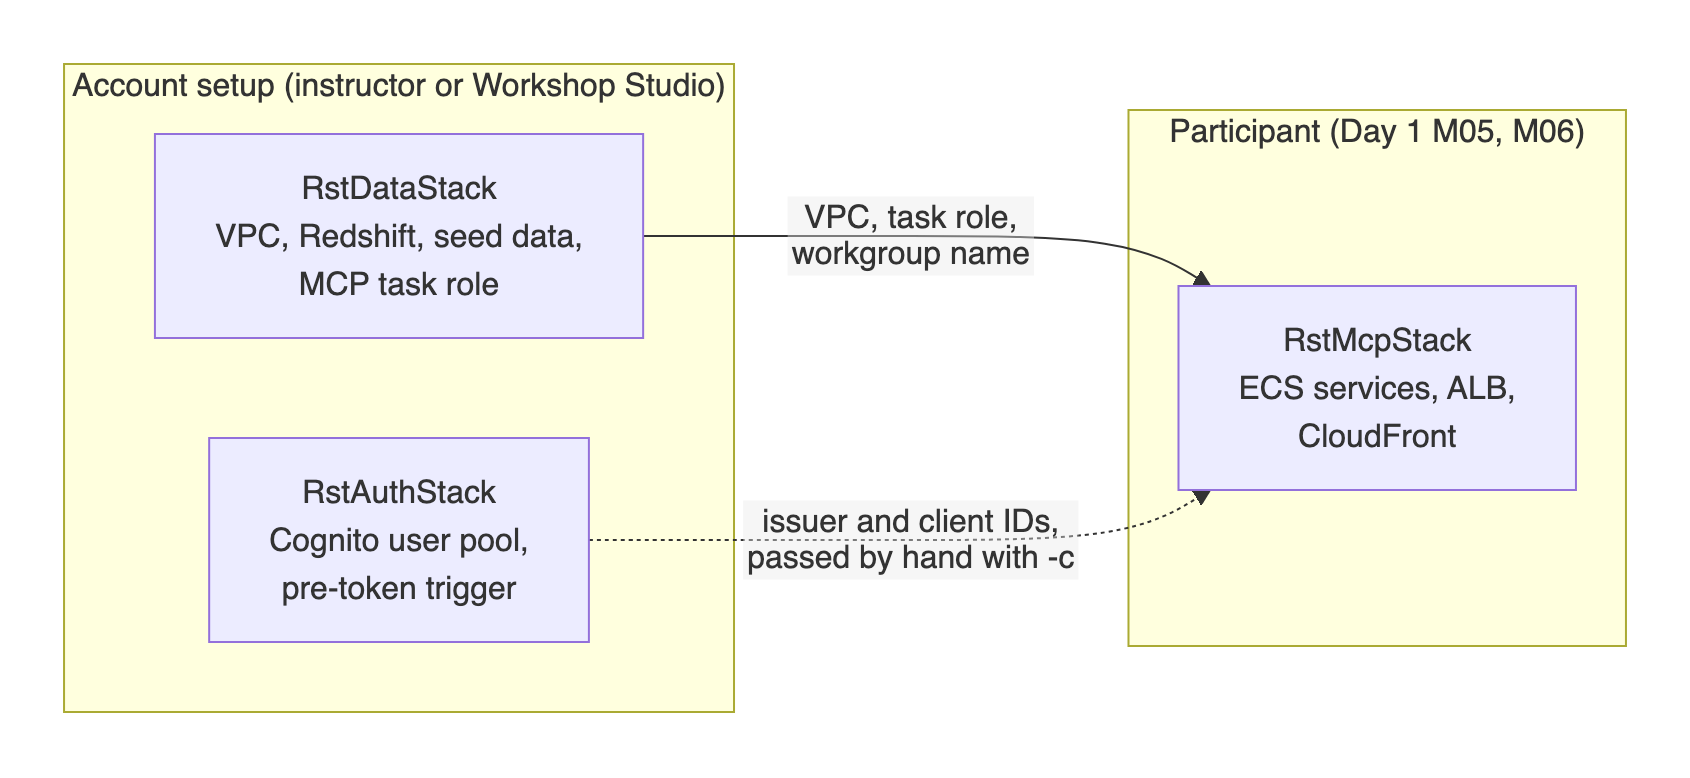
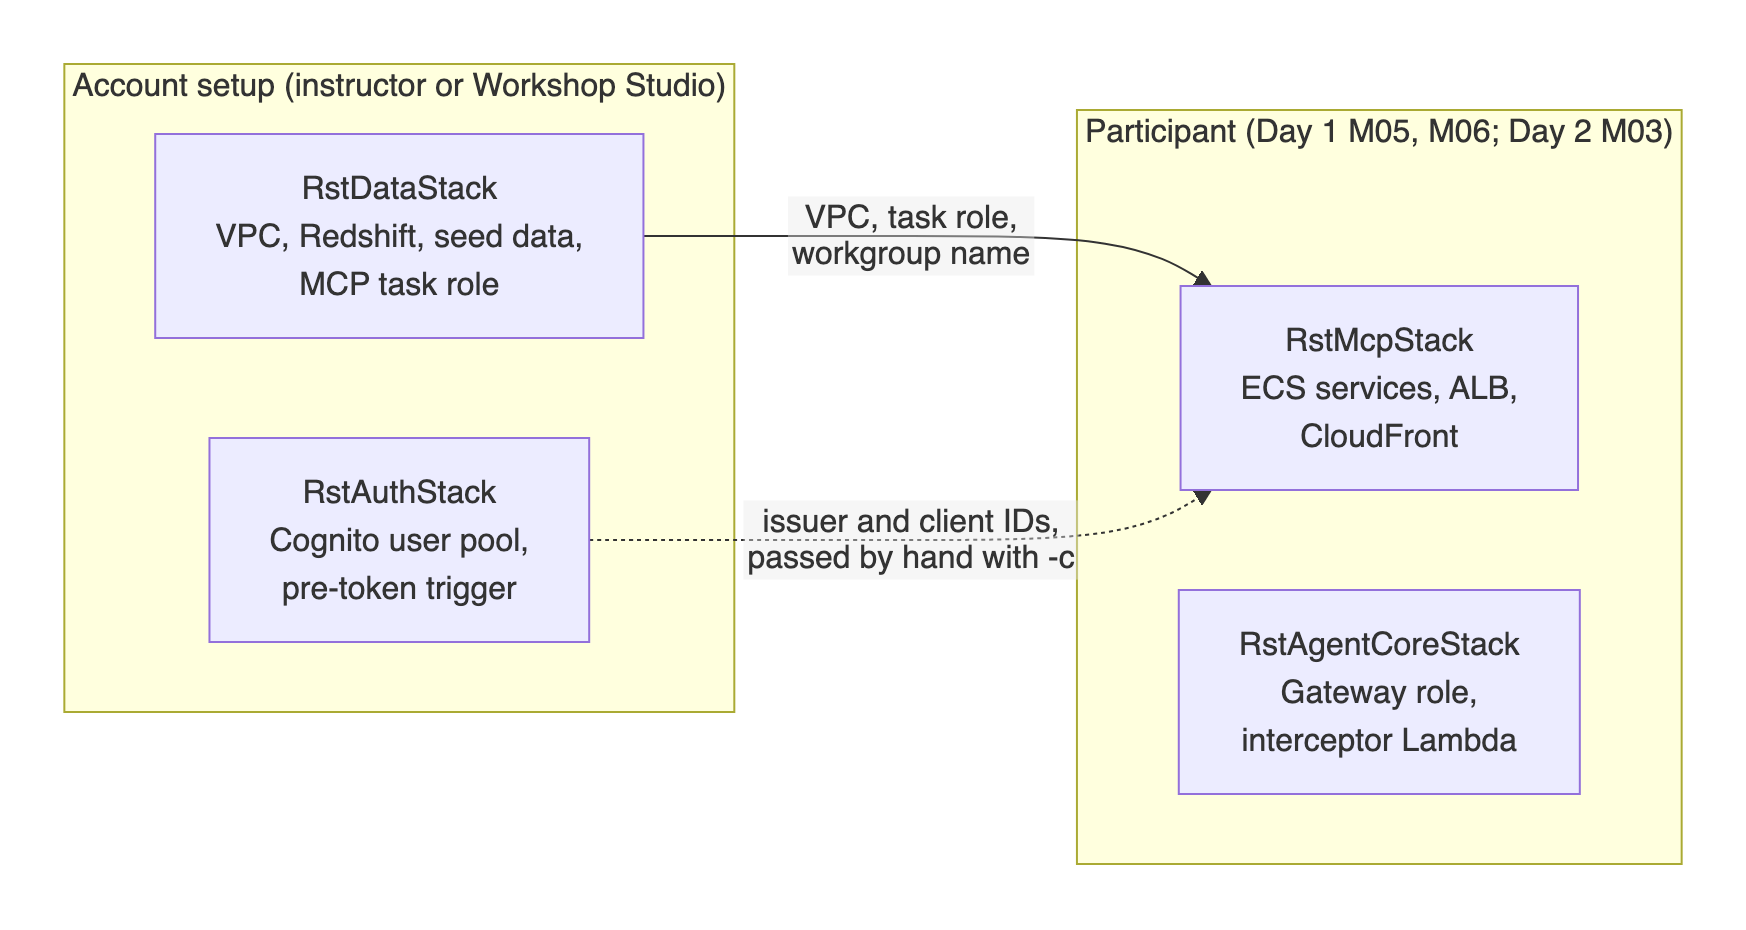
Learning plan, prereqs and CDK reference updated for the tested Days 2-3; new Reference page: Sign-in and tokens, explained

diff --git a/AWS-001-AgenticFromScratch/docs/infra.md b/AWS-001-AgenticFromScratch/docs/infra.md
@@ -8,19 +8,21 @@ You don't need to write CDK in the workshop. You need to know which stack to dep
 
 | Path | What it is |
 |---|---|
-| [`bin/app.ts`](../infra/bin/app.ts) | The CDK app: reads the `-c` options, checks them, and creates the three stacks |
+| [`bin/app.ts`](../infra/bin/app.ts) | The CDK app: reads the `-c` options, checks them, and creates the four stacks |
 | [`lib/data-stack.ts`](../infra/lib/data-stack.ts) | `RstDataStack`: network, Redshift with the mock data, the MCP server's IAM role |
 | [`lib/auth-stack.ts`](../infra/lib/auth-stack.ts) | `RstAuthStack`: the Cognito user pool (and, as catch-up, everything from M06 Part B) |
 | [`lib/mcp-stack.ts`](../infra/lib/mcp-stack.ts) | `RstMcpStack`: the MCP server and the two internal apps on ECS, behind CloudFront |
+| [`lib/agentcore-stack.ts`](../infra/lib/agentcore-stack.ts) | `RstAgentCoreStack` (Day 2): the AgentCore Gateway's IAM role and request interceptor |
 | [`lambda/seed/handler.py`](../infra/lambda/seed/handler.py) | Custom resource that loads the mock data into Redshift and grants access |
 | [`lambda/pre_token/index.py`](../infra/lambda/pre_token/index.py) | Cognito trigger that copies `role` and `branch_id` into the access token |
+| [`lambda/gateway_interceptor/index.py`](../infra/lambda/gateway_interceptor/index.py) | Gateway request interceptor (Day 2): passes the caller's token on to the MCP server target |
 | [`test/test_seed_handler.py`](../infra/test/test_seed_handler.py) | Unit tests for the seed handler |
 | [`cdk.json`](../infra/cdk.json) | How to run the app (`ts-node bin/app.ts`) and the default value of each option |
 | `package.json` | CDK versions (`aws-cdk-lib`, `aws-cdk` CLI). Run `npm install` once |
 
 The stacks use files outside `infra/` too: `data/` (seed generator and SQL, used by the seed Lambda), and `mcp-server/`, `mock-api/`, `legacy-app/` (each built into a container image by `RstMcpStack`).
 
-## The three stacks
+## The stacks
 
 ```mermaid
 flowchart LR
@@ -28,8 +30,9 @@ flowchart LR
         data["RstDataStack<br/>VPC, Redshift, seed data,<br/>MCP task role"]
         auth["RstAuthStack<br/>Cognito user pool,<br/>pre-token trigger"]
     end
-    subgraph participant["Participant (Day 1 M05, M06)"]
+    subgraph participant["Participant (Day 1 M05, M06; Day 2 M03)"]
         mcp["RstMcpStack<br/>ECS services, ALB,<br/>CloudFront"]
+        ac["RstAgentCoreStack<br/>Gateway role,<br/>interceptor Lambda"]
     end
     data -- "VPC, task role,<br/>workgroup name" --> mcp
     auth -. "issuer and client IDs,<br/>passed by hand with -c" .-> mcp
@@ -47,7 +50,7 @@ Open full size: [PNG](img/diagrams/infra-1.png) · [SVG](img/diagrams/infra-1.sv
 | Redshift Serverless namespace and workgroup `rst-workshop`, database `dev`, base capacity 8 RPU, 60 s query limit | The data the MCP tools read. Not publicly reachable |
 | Secrets Manager secret `RedshiftAdmin` | The admin password, used only by the seed step |
 | S3 bucket and a COPY role | The seed step writes CSV files here and Redshift loads them |
-| IAM role `rst-mcp-task-<region>` | The MCP server's identity. It may call the Redshift Data API on this workgroup only, and is mapped to the database role `mcp_reader`. ECS and AgentCore Runtime (Day 2) can use it |
+| IAM role `rst-mcp-task-<region>` | The MCP server's identity. It may call the Redshift Data API on this workgroup only, and is mapped to the database role `mcp_reader`. ECS and AgentCore Runtime (Day 2) can use it; it may also write Runtime logs, traces and metrics |
 | Custom resource `Seed` (Lambda `lambda/seed/handler.py`) | Creates the tables and `mcp` views, loads the mock data, creates `mcp_reader` and grants it to the task role and to `localDevRoleNames` |
 
 The seed reloads data only when the files in `data/` change or you pass a different `seedEndDate`. It re-applies access (grants) on every deploy.
@@ -79,13 +82,22 @@ Internet → CloudFront (HTTPS) → VPC origin → internal ALB → ECS Fargate:
 | ECS cluster with Cloud Map namespace `rst.local` (shared account: `<participant>.rst.local`) | The MCP server finds the internal apps as `mock-api.rst.local` and `legacy-app.rst.local` |
 | Three Fargate services, 0.25 vCPU / 512 MiB each, ARM64 by default | `mcp-server` (2 tasks, port 8000), `mock-api` (8080), `legacy-app` (8081). Images are built from the folders on your laptop (Docker or Finch) |
 | Secrets `OpsApiKey`, `PromoApiToken` | API keys of the two internal apps, given to the containers as environment variables |
-| Internal Application Load Balancer, health check `/health` | Never public. Only reachable from inside the VPC |
-| CloudFront distribution with a VPC origin | Gives HTTPS on `*.cloudfront.net` without a custom domain or certificate |
+| Internal Application Load Balancer, health check `/health` | Never public. Only reachable from inside the VPC. Paths `/ops/*` go to `mock-api` (Day 2), everything else to the MCP server |
+| CloudFront distribution with a VPC origin | Gives HTTPS on `*.cloudfront.net` without a custom domain or certificate. `https://<cdn>/mcp` is the MCP server; `https://<cdn>/ops` the Ops API (still needs its `X-API-Key`), for AgentCore, which runs outside the VPC |
 | Log groups, one per service, kept one week | CloudWatch Logs, used in M05 and M07 |
 
 Auth is off until you pass `oidcIssuer` (M06 step 7). Then the stack sets `OIDC_ISSUER`, `OIDC_ALLOWED_AUDIENCES`, `OIDC_REQUIRED_SCOPES` and `MCP_PUBLIC_URL` on the MCP server, which turns token checking on.
 
-Outputs: `McpUrl`, `McpPublicUrlNote` (says whether auth is on), `OpsApiKeySecretArn`, `PromoApiTokenSecretArn`.
+Outputs: `McpUrl`, `OpsApiUrl`, `McpPublicUrlNote` (says whether auth is on), `OpsApiKeySecretArn`, `PromoApiTokenSecretArn`.
+
+### `RstAgentCoreStack` (Day 2)
+
+| Resource | Why |
+|---|---|
+| IAM role `rst-gateway-role-<region>` | The role the AgentCore Gateway runs as: read its credentials from the AgentCore Identity vault (and only `bedrock-agentcore-identity!*` secrets), call the interceptor, ask the policy engine |
+| Lambda `rst-gateway-interceptor` | Request interceptor: hands the caller's `Authorization` header on to the targets, so the MCP server knows the user |
+
+The Gateway, its targets, credential providers and policies are not in CDK: participants create them with the AWS CLI in Day 2 M03–M05. Outputs: `GatewayRoleArn`, `InterceptorArn`. Shared account: `RstAgentCoreStack-<participant>`.
 
 ## Options (`-c key=value`)
 
@@ -104,7 +116,7 @@ Defaults are in `cdk.json`. Options are not remembered between deploys: **pass t
 | `oidcIssuer` | MCP | empty | `https://cognito-idp.<region>.amazonaws.com/<user pool id>`. Set: auth on |
 | `oidcAllowedAudiences` | MCP | empty | The app client IDs allowed to call the server, comma-separated, no spaces |
 | `oidcRequiredScopes` | MCP | `rst-mcp/read` | The scope every token must have: `<McpUrl>/read` |
-| `participant` | MCP | empty | Shared account: your short name (2–20 lowercase letters and digits). The stack becomes `RstMcpStack-<participant>` |
+| `participant` | MCP, AgentCore | empty | Shared account: your short name (2–20 lowercase letters and digits). The stacks become `RstMcpStack-<participant>` and `RstAgentCoreStack-<participant>` |
 
 `bin/app.ts` checks `seedEndDate` and `participant` before anything is deployed, so a typo fails at once with a clear message.
 
@@ -131,7 +143,7 @@ npx cdk destroy RstMcpStack          # delete your server stack
 - **Finch instead of Docker:** set `CDK_DOCKER=finch` before deploying.
 - **Shared account:** add `--exclusively -c participant=<name>` and use `RstMcpStack-<name>`. `--exclusively` stops CDK from also deploying `RstDataStack`, which belongs to the instructor.
 - **Wrong region:** CDK uses `CDK_DEFAULT_REGION`, from your profile or `AWS_REGION`. If a deploy goes to an unexpected region, check `echo $AWS_REGION`.
-- **Deleting everything** (instructor, after the event): `RstMcpStack` first (all participant stacks), then `RstAuthStack` and `RstDataStack`.
+- **Deleting everything** (instructor, after the event): first the AgentCore resources (Day 2 M05 and Day 3 M05 "Clean up"), then `RstAgentCoreStack` and `RstMcpStack` (all participant stacks), then `RstAuthStack` and `RstDataStack`.
 
 ## Troubleshooting
 

diff --git a/AWS-001-AgenticFromScratch/learning-plan.md b/AWS-001-AgenticFromScratch/learning-plan.md
@@ -108,18 +108,16 @@ Target: 08:30–17:15 (7h15 content, 1h30 breaks).
 
 ## Day 2 — Same workload on AgentCore
 
-> **Preview** — Day 2 has not yet been tested end to end.
-
 Target: 09:00–17:00 (6h30 content, 1h30 breaks).
 
 | # | Module | Time | Outcome |
 |---|---|---|---|
 | 01 | [AgentCore overview](day2/01-agentcore-overview.md) | 30m | Map Day 1 components to AgentCore services |
-| 02 | [Runtime](day2/02-runtime.md) | 75m | Host Day 1 MCP server on AgentCore Runtime with JWT inbound auth |
-| 03 | [Gateway](day2/03-gateway.md) | 90m | Zero-code MCP from OpenAPI; Lambda target for Redshift; semantic tool search |
-| 04 | [Identity](day2/04-identity.md) | 45m | Outbound credentials (API key, OAuth) via token vault |
-| 05 | [Policy + Observability](day2/05-policy-observability.md) | 60m | Cedar policy restricting write tools; CloudWatch traces |
-| 06 | [Capstone](day2/06-capstone.md) | 60m | Quick + Kiro on Gateway, one restaurant scenario end to end |
+| 02 | [Runtime](day2/02-runtime.md) | 60m | Day 1 MCP server on AgentCore Runtime, same code, Cognito sign-in checked by Runtime |
+| 03 | [Gateway](day2/03-gateway.md) | 75m | One MCP address: Ops API from OpenAPI (no code) + the Runtime server; user identity kept; tool search |
+| 04 | [Identity](day2/04-identity.md) | 30m | Where outbound credentials live (vault), who may read them, ways to pass the user's identity |
+| 05 | [Policy + Observability](day2/05-policy-observability.md) | 60m | Cedar rules on the Gateway (own branch, managers-only refunds), log-only then enforce; logs and traces |
+| 06 | [Capstone](day2/06-capstone.md) | 75m | Kiro on the Gateway, one restaurant scenario end to end, new tool shipped through Runtime |
 | 07 | [Decision matrix](day2/07-decision-matrix.md) | 30m | Choose ECS vs Runtime vs Gateway for common use cases |
 
 **Day 2 schedule**
@@ -127,27 +125,26 @@ Target: 09:00–17:00 (6h30 content, 1h30 breaks).
 | Time | Item |
 |---|---|
 | 09:00–09:30 | M01 AgentCore overview |
-| 09:30–10:45 | M02 Runtime |
-| 10:45–11:00 | Break |
-| 11:00–12:30 | M03 Gateway |
-| 12:30–13:30 | Lunch |
-| 13:30–14:15 | M04 Identity |
-| 14:15–15:15 | M05 Policy + Observability |
-| 15:15–15:30 | Break |
-| 15:30–16:30 | M06 Capstone |
-| 16:30–17:00 | M07 Decision matrix |
+| 09:30–10:30 | M02 Runtime |
+| 10:30–10:45 | Break |
+| 10:45–12:00 | M03 Gateway |
+| 12:00–13:00 | Lunch |
+| 13:00–13:30 | M04 Identity |
+| 13:30–14:30 | M05 Policy + Observability |
+| 14:30–14:45 | Break |
+| 14:45–16:00 | M06 Capstone |
+| 16:00–16:30 | M07 Decision matrix |
+| 16:30–17:00 | Buffer / Q&A |
 
 **Day 2 checkpoints**
 
-- After M02: Kiro calls Runtime-hosted MCP with a Cognito bearer token.
-- After M03: Gateway exposes mock API tools without code written by participant.
-- After M05: `issue_refund` denied for non-manager, allowed for manager; trace visible.
+- After M02: `who_am_i` through Runtime returns the signed-in test user; Kiro uses `rst-agentcore-runtime`.
+- After M03: one Gateway URL lists the Ops API and Runtime tools; `RstMcp___get_current_stock` for another branch returns your own branch.
+- After M05: a manager reading another branch's live stock, and a staff refund, are denied by Gateway rules; the policy decision is visible in the traces.
 
 ---
 
 ## Day 3 — Agents: plan, act, ask, measure
-
-> **Preview** — Day 3 has not yet been tested end to end. The agent and test harness have unit tests, and the agent was checked live against the Day 1 server.
 
 Target: 09:00–17:00 (6h30 content, 1h30 breaks).
 
@@ -202,11 +199,13 @@ The agent uses the same tools as Days 1–2 — no new data sources. Code lives 
 
 **Tested end to end (Day 1):** data and auth stacks, Redshift tools through MCP, ECS deploy behind CloudFront, 401 for missing or invalid tokens, branch scoping and write-tool rules for manager / staff / HQ, the M07 combined question, Kiro IDE OAuth sign-in, and Amazon Quick (web) user authentication — all against a real Cognito pool. Findings from that run are built into M05, M06 and [docs/auth-options.md](docs/auth-options.md).
 
+**Tested end to end (Days 2 and 3, us-east-1):** the MCP server on AgentCore Runtime with Cognito sign-in and branch scoping; the Gateway with the OpenAPI and Runtime targets, the request interceptor and tool search; the four Cedar rules in log-only and enforce mode; Gateway logs and traces; the local agent (recorder, approval, decline and approve); the eval set (18/18 locally); the agent on Runtime with tools through the Gateway, approval pause and policy denial; traces in GenAI Observability.
+
 **Not yet verified:**
 
 - Quick **service auth** against Cognito: Quick always sends `resource` (RFC 8707), and Cognito doesn't support resource binding on client credentials. It may be rejected.
 - Amazon Quick availability and cost in your accounts (needs Enterprise).
-- AgentCore Runtime / Gateway / Policy availability in your region.
-- Day 2 end to end.
-- Day 3 end to end: `agentcore` CLI flags in M05 come from help text, not a live run. Bedrock model access (including any one-time model use-case form) must be enabled. Quick does not show the agent's approval prompts — the approval demo runs in the agent CLI.
+- AgentCore Runtime / Gateway / Policy availability outside us-east-1.
+- Quick connected to the Day 2 Gateway or Runtime (Kiro with a bearer token was tested). Quick does not show the agent's approval prompts; the approval demo runs in the agent CLI.
+- Windows PowerShell versions of the Day 2 and Day 3 commands (tested on macOS).
 - Module timings beyond Day 1's measured deploy times: dry-run each day with an analyst-profile tester (M02 and Day 3 M04 especially).

diff --git a/AWS-001-AgenticFromScratch/docs/sign-in-and-tokens.md b/AWS-001-AgenticFromScratch/docs/sign-in-and-tokens.md
@@ -1,0 +1,96 @@
+# Sign-in and tokens, explained
+
+From Day 1 Module 06 on, every call to your MCP server, the AgentCore Runtime and the Gateway carries a **token**. This page explains what a token is, where it comes from, what the servers check, and what the common errors mean. No prior OAuth knowledge needed.
+
+## The idea in one picture
+
+```mermaid
+sequenceDiagram
+    participant U as You (browser)
+    participant C as Cognito<br/>(user pool)
+    participant A as App: Kiro, get_token.py, Quick
+    participant S as MCP server, Runtime or Gateway
+    A->>C: 1. "Sign this user in" (app client ID, scope)
+    C->>U: 2. Login page
+    U->>C: 3. Username + password
+    C->>A: 4. Access token (valid 1 hour)
+    A->>S: 5. Request + "Authorization: Bearer <token>"
+    S->>S: 6. Check the token, read role and branch
+    S->>A: 7. Answer (only your branch's data)
+```
+
+Open full size: [PNG](img/diagrams/sign-in-and-tokens-1.png) · [SVG](img/diagrams/sign-in-and-tokens-1.svg)
+
+The **user pool** (Cognito) is the only place that knows passwords. Apps never see them: they get a **token** instead and send it with every request. The server trusts the token because Cognito signed it.
+
+## Words you will see
+
+| Word | Plain meaning | In this workshop |
+|---|---|---|
+| **User pool** | Cognito's list of users and its sign-in service | `rst-workshop` (stack `RstAuthStack`) |
+| **App client** | One app that may sign users in, with its own ID | `kiro-user`, `quick-user`, `quick-s2s` (Day 1 M06 Part B) |
+| **Access token** | A signed, time-limited pass the app sends with each request | What `get_token.py` prints; starts with `eyJ` |
+| **JWT** (JSON Web Token) | The token format: three parts separated by dots, the middle part is readable JSON | `python scripts/get_token.py ... --decode` shows the middle part |
+| **Claim** | One field inside the token | `username`, `client_id`, `role`, `branch_id`, `scope`, `exp` |
+| **Scope** | What the token may be used for | `<McpUrl>/read`: "may read the restaurant MCP server" |
+| **Issuer** | Who signed the token | `https://cognito-idp.<region>.amazonaws.com/<user pool id>` |
+| **Bearer token** | "Whoever holds this may use it", sent as `Authorization: Bearer <token>` | The `headers` entries in Kiro's `mcp.json` |
+| **Inbound** | Checking the token of whoever calls **you** | Runtime and Gateway authorizers, `lib/auth.py` |
+| **Outbound** | The credential **you** use to call something else | The Ops API key, the `quick-s2s` secret (Day 2 M04) |
+
+## What a token looks like inside
+
+```json
+{
+  "iss": "https://cognito-idp.us-east-1.amazonaws.com/us-east-1_AbCdEf123",
+  "client_id": "5fmfu9950v...",
+  "username": "manager_branch_12",
+  "role": "manager",
+  "branch_id": "12",
+  "scope": "openid https://d123abc.cloudfront.net/mcp/read",
+  "exp": 1791380000
+}
+```
+
+- `role` and `branch_id` are not standard: the workshop's pre-token trigger (`infra/lambda/pre_token/index.py`) copies them from the user's attributes into every token. Branch scoping reads them.
+- Every claim is **text**, even `branch_id`. That's why the Day 2 policy rules compare `"12"`, not `12`.
+- `exp` is the expiry time. Tokens last **1 hour**.
+
+## What each server checks
+
+| Server | Checks | Configured in |
+|---|---|---|
+| Your MCP server (`lib/auth.py`) | Signature, issuer, expiry, `client_id` in `OIDC_ALLOWED_AUDIENCES`, scope `OIDC_REQUIRED_SCOPES` | Day 1 M06 step 7 (`-c oidc...`), Day 2 M02 step 5 (`envVars`) |
+| AgentCore Runtime | Signature, issuer (from the discovery URL), expiry, `client_id` in `allowedClients` | Day 2 M02 step 4 (`agentcore add agent ...`) |
+| AgentCore Gateway | The same, plus `allowedScopes` | Day 2 M03 step 2 (`gateway.json`) |
+| Gateway policy (Cedar) | Claims as tags: `principal.getTag("role")` | Day 2 M05 |
+
+## Getting a token
+
+```bash
+export RST_MCP_SCOPE="openid <McpUrl>/read"
+python3 scripts/get_token.py --domain <Cognito domain> --client-id <kiro-user id> --decode   # shows the claims
+export RST_MCP_TOKEN=$(python3 scripts/get_token.py --domain <Cognito domain> --client-id <kiro-user id>)
+```
+
+```powershell
+$env:RST_MCP_SCOPE = "openid <McpUrl>/read"
+py scripts\get_token.py --domain <Cognito domain> --client-id <kiro-user id> --decode   # shows the claims
+$env:RST_MCP_TOKEN = (py scripts\get_token.py --domain <Cognito domain> --client-id <kiro-user id>)
+```
+
+The browser opens the sign-in page every time (so you can switch users). Sign in as the user you want; `--decode` confirms who it is.
+
+## Common errors
+
+| You see | Usually means | Fix |
+|---|---|---|
+| `401` / `MissingAuthenticationTokenException` | No token sent | Set `RST_MCP_TOKEN`; check the `headers` line in `mcp.json` |
+| `401` after it worked before | The token expired (1 hour) | Get a new token |
+| `403 insufficient_scope` from the Gateway | Often also an **expired token**; otherwise the token lacks `<McpUrl>/read` | New token, with `RST_MCP_SCOPE` set |
+| `invalid_scope` on the sign-in page | The app client isn't allowed that scope | Tick `<McpUrl>/read` under **Custom scopes** on the app client (Day 1 M06 Part B) |
+| `who_am_i` says `hq` with `is_service: true` | The server got a service token, not yours | Day 2 M03: the interceptor must be on the Gateway |
+| Signed in as the wrong user | The browser reused the last sign-in | `get_token.py` always shows the login page; in Kiro see Day 1 M06 "Switching test users" |
+
+## Keep tokens safe
+A token is a password for one hour: don't paste it into chats, tickets or files you commit. `RST_MCP_TOKEN` lives only in your terminal session.

diff --git a/AWS-001-AgenticFromScratch/prereqs.md b/AWS-001-AgenticFromScratch/prereqs.md
@@ -38,8 +38,9 @@ No Git yet? Install it first (see the list below), or download the code as a ZIP
 - [ ] Kiro installed and signed in
 - [ ] Python 3.12+ and [`uv`](https://docs.astral.sh/uv/)
 - [ ] Docker Desktop or Finch (needed from Module 04; Modules 01-03 run without it). Can't install either on your laptop? Run the Module 05 deploy from AWS CloudShell, which has Docker built in.
-- [ ] AWS CLI v2
+- [ ] AWS CLI v2, version 2.34 or later (`aws --version`; Day 2 uses the `bedrock-agentcore-control` commands)
 - [ ] Node.js 22.19+ (MCP Inspector needs it; current LTS versions are fine)
+- [ ] Days 2–3: the AgentCore CLI, `npm install -g @aws/agentcore@0.31` (Day 2 M02 step 1 shows it)
 - [ ] Git
 - [ ] Browser access to the AWS Console and Amazon Quick (and Workshop Studio, if your event uses it)
 
@@ -242,6 +243,7 @@ Quick appears in Day 1 Module 06 Part C and the Module 07 demo, and in the Quick
 - [ ] Full Day 1 run by someone with analyst profile
 - [ ] Quick user auth works end-to-end with Cognito
 - [ ] Kiro remote MCP works with OAuth sign-in and with a bearer header
-- [ ] Day 2 Runtime + Gateway reachable from Quick
+- [ ] Day 2 Runtime + Gateway reachable from Kiro with a bearer token (Quick optional, not yet tested)
+- [ ] Bedrock model access for `global.anthropic.claude-sonnet-5-5` in the workshop accounts (Day 3)
 - [ ] Full Day 3 run by someone with analyst profile; agent approval flow and scoring script work end to end
 - [ ] Shared account: two participants deploy `RstMcpStack-<name>` side by side and both pass the Module 06 checkpoint
